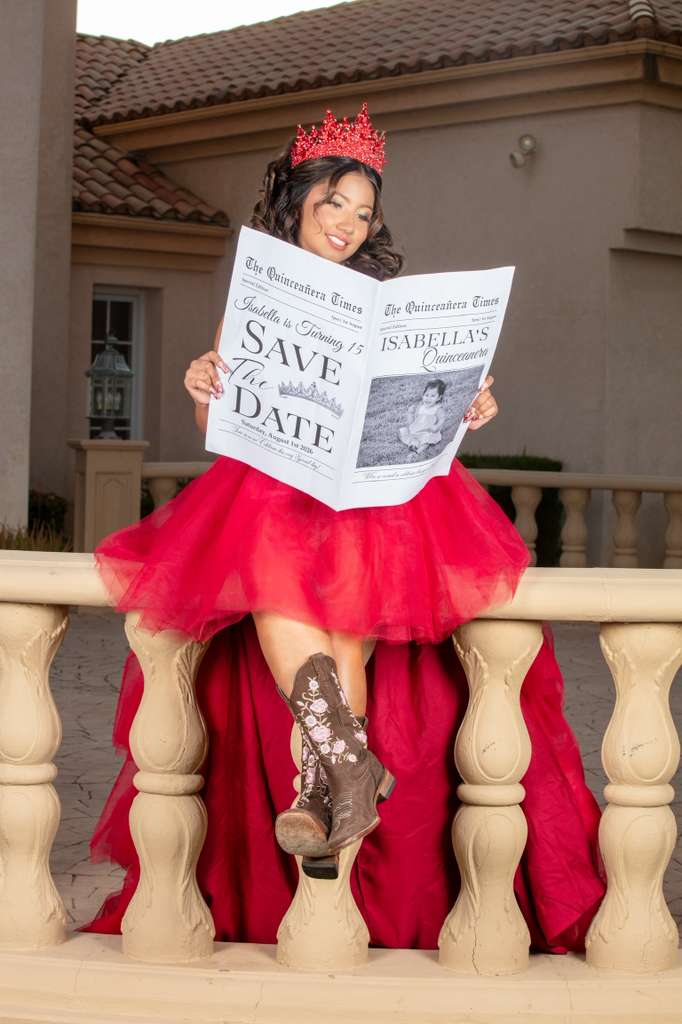
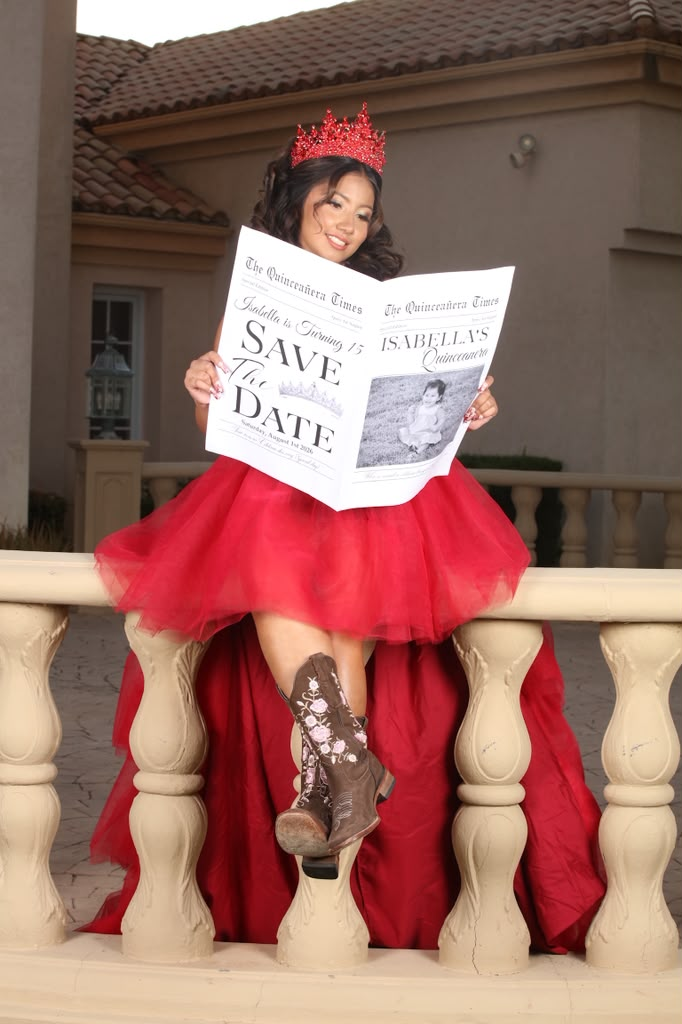
Se mejora la calidad de las imagenes

diff --git a/assets/css/styles.css b/assets/css/styles.css
@@ -852,28 +852,6 @@ body.content-ready .navbar {
   flex-direction: column;
   align-items: center;
 
-  padding-top: 120px;
-
-  background:
-    linear-gradient(rgba(255, 255, 255, .88),
-      rgba(255, 255, 255, .94)),
-    url('../img/ceremonia.png');
-
-  background-size: cover;
-  background-position: center;
-}
-
-/* ========================================================= */
-/* UBICACIÓN — ESTILO EDITORIAL PREMIUM                      */
-/* ========================================================= */
-
-#ubicacion {
-  position: relative;
-
-  display: flex;
-  flex-direction: column;
-  align-items: center;
-
   width: 100%;
 
   padding-top: 120px;
@@ -1757,6 +1735,8 @@ body.content-ready .navbar {
   object-position: center top;
 
   display: block;
+
+  cursor: zoom-in;
 }
 
 #galeria .arco-base {
@@ -1797,6 +1777,35 @@ body.content-ready .navbar {
   right: 8px;
 }
 
+.carousel-track .carousel-img:nth-child(2){
+  object-position: 80% center;
+}
+
+.lightbox{
+
+  position: fixed;
+  inset: 0;
+
+  background: rgba(0,0,0,.92);
+
+  display: flex;
+  justify-content: center;
+  align-items: center;
+
+  z-index: 999999;
+
+  cursor: zoom-out;
+}
+
+.lightbox img{
+
+  max-width: 92vw;
+  max-height: 92vh;
+
+  object-fit: contain;
+
+  border-radius: 12px;
+}
 /* ========================================================= */
 /* FOOTER */
 
@@ -3389,7 +3398,7 @@ body.footer-ready .music-btn {
   position: absolute;
   inset: 0;
 
-  background-image: url("../img/countdown.png");
+  background-image: url("../img/countdown.jpg");
 
   background-size: cover;
   background-repeat: no-repeat;
@@ -3781,7 +3790,8 @@ body {
   height: 100%;
 
   object-fit: cover;
-  object-position: center;
+
+  object-position: 70% center;
 
   display: block;
 }
@@ -3898,6 +3908,97 @@ body {
   pointer-events: auto;
 }
 
+.lightbox-close{
+
+  position: absolute;
+
+  top: 24px;
+  right: 24px;
+
+  width: 46px;
+  height: 46px;
+
+  border: none;
+  border-radius: 50%;
+
+  background: rgba(255,255,255,.14);
+
+  backdrop-filter: blur(8px);
+
+  color: white;
+
+  font-size: 22px;
+  font-weight: 300;
+
+  cursor: pointer;
+
+  display: flex;
+  justify-content: center;
+  align-items: center;
+
+  transition:
+    transform .25s ease,
+    background .25s ease;
+}
+
+.lightbox-close:hover{
+
+  transform: scale(1.08);
+
+  background: rgba(255,255,255,.24);
+}
+
+
+.lightbox-nav{
+
+  position: absolute;
+
+  top: 50%;
+
+  transform: translateY(-50%);
+
+  width: 54px;
+  height: 54px;
+
+  border: none;
+  border-radius: 50%;
+
+  background: rgba(255,255,255,.14);
+
+  backdrop-filter: blur(8px);
+
+  color: white;
+
+  font-size: 38px;
+  font-weight: 300;
+
+  cursor: pointer;
+
+  display: flex;
+  justify-content: center;
+  align-items: center;
+
+  transition:
+    transform .25s ease,
+    background .25s ease;
+}
+
+.lightbox-nav:hover{
+
+  background: rgba(255,255,255,.24);
+
+  transform:
+    translateY(-50%)
+    scale(1.08);
+}
+
+.lightbox-nav.left{
+  left: 24px;
+}
+
+.lightbox-nav.right{
+  right: 24px;
+}
 /* MOBILE */
 
 @media(max-width:480px) {

diff --git a/assets/js/carousel.js b/assets/js/carousel.js
@@ -1,47 +1,156 @@
 (function () {
+
   let initialized = false;
 
   document.addEventListener("event:data:ready", () => {
+
     if (initialized) return;
+
     initialized = true;
 
     let index = 0;
 
     const track = document.querySelector(".carousel-track");
+
     const btnLeft = document.querySelector(".carousel-btn.left");
+
     const btnRight = document.querySelector(".carousel-btn.right");
 
     if (!track || !btnLeft || !btnRight) return;
 
     function getSlides() {
+
       return track.querySelectorAll(".carousel-img");
+
     }
 
     function updateCarousel() {
+
       const slides = getSlides();
+
       if (!slides.length) return;
 
       track.style.transform = `translateX(-${index * 100}%)`;
+
     }
 
     btnRight.addEventListener("click", () => {
+
       const slides = getSlides();
+
       if (!slides.length) return;
 
       index = (index + 1) % slides.length;
+
       updateCarousel();
+
     });
 
     btnLeft.addEventListener("click", () => {
+
       const slides = getSlides();
+
       if (!slides.length) return;
 
       index = (index - 1 + slides.length) % slides.length;
+
       updateCarousel();
+
     });
 
     /* estado inicial */
+
     index = 0;
+
     updateCarousel();
+
+    /* ================= LIGHTBOX ================= */
+
+    /* ================= LIGHTBOX ================= */
+
+    getSlides().forEach((img, imgIndex) => {
+
+      img.addEventListener("click", () => {
+
+        const slides = getSlides();
+
+        let currentIndex = imgIndex;
+
+        const overlay = document.createElement("div");
+
+        overlay.className = "lightbox";
+
+        function renderImage() {
+
+          overlay.innerHTML = `
+
+        <button class="lightbox-close">✕</button>
+
+        <button class="lightbox-nav left">‹</button>
+
+        <img src="${slides[currentIndex].src}" alt="">
+
+        <button class="lightbox-nav right">›</button>
+
+      `;
+
+          /* cerrar */
+
+          overlay.querySelector(".lightbox-close")
+            .addEventListener("click", (e) => {
+
+              e.stopPropagation();
+
+              overlay.remove();
+
+            });
+
+          /* anterior */
+
+          overlay.querySelector(".lightbox-nav.left")
+            .addEventListener("click", (e) => {
+
+              e.stopPropagation();
+
+              currentIndex =
+                (currentIndex - 1 + slides.length) % slides.length;
+
+              renderImage();
+
+            });
+
+          /* siguiente */
+
+          overlay.querySelector(".lightbox-nav.right")
+            .addEventListener("click", (e) => {
+
+              e.stopPropagation();
+
+              currentIndex =
+                (currentIndex + 1) % slides.length;
+
+              renderImage();
+
+            });
+
+        }
+
+        renderImage();
+
+        document.body.appendChild(overlay);
+
+        /* click afuera */
+
+        overlay.addEventListener("click", () => {
+
+          overlay.remove();
+
+        });
+
+      });
+
+    });
+
   });
+
 })();

diff --git a/index.html b/index.html
@@ -414,7 +414,7 @@
 
           <div class="rsvp-cover active">
 
-            <img src="assets/img/2.png" alt="XV" class="rsvp-cover-img">
+            <img src="assets/img/2.jpg" alt="XV" class="rsvp-cover-img">
 
             <div class="rsvp-cover-overlay"></div>
 
